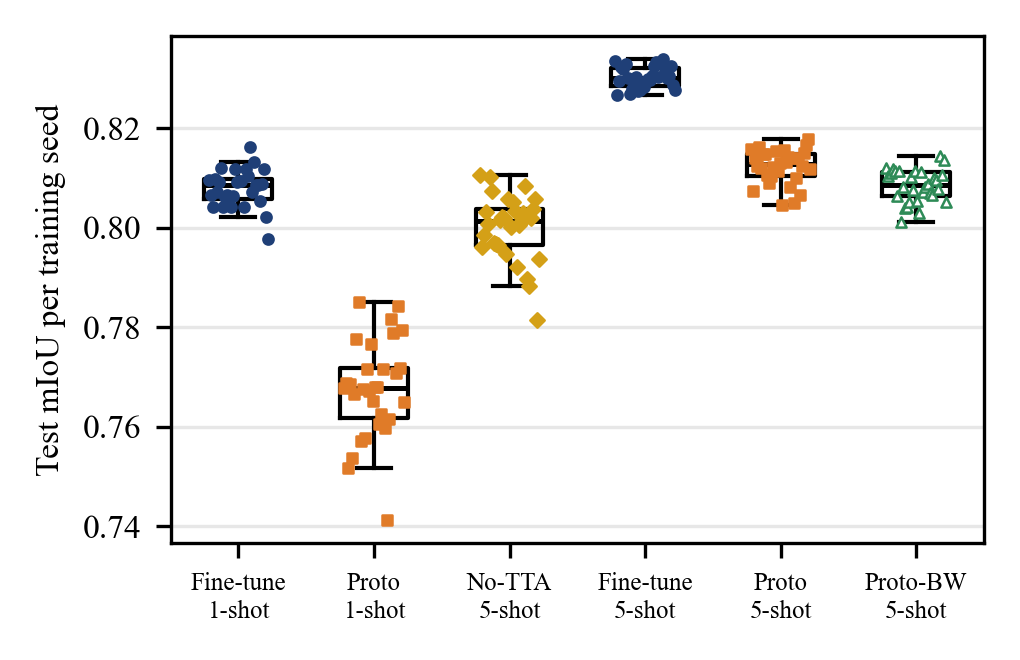
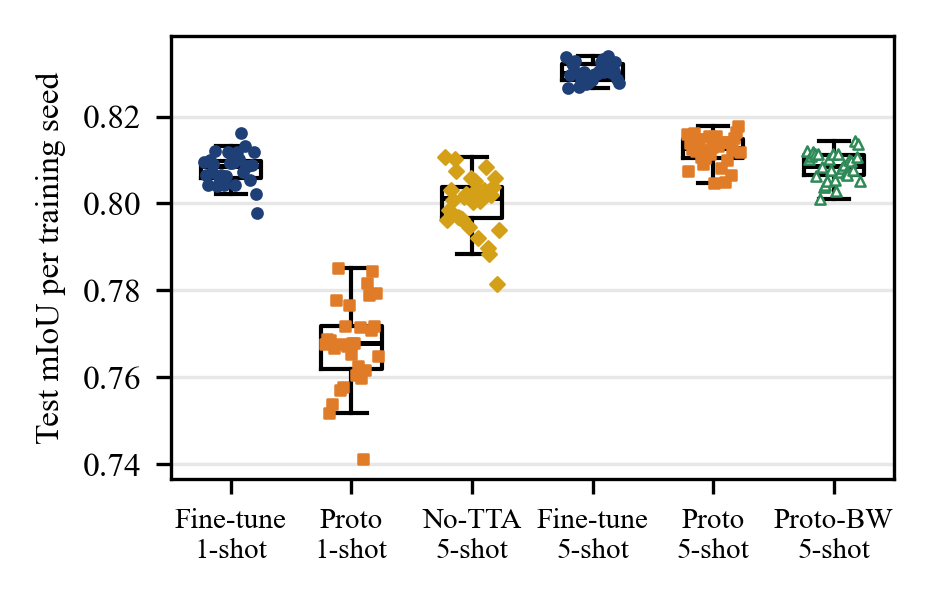
Use median test times, add even/odd-seed robustness tests, draw figures at print width

diff --git a/scripts/stats_and_figures.py b/scripts/stats_and_figures.py
@@ -12,6 +12,7 @@ Outputs (in <root>/report/):
     final_table.md      test mIoU / F1, mean +/- std over training seeds
     stats.md, stats.json paired t-test + Wilcoxon, Holm-corrected, effect sizes
     friedman.json        Friedman omnibus test over the three methods
+    robustness.json      the planned tests repeated on even and odd training seeds
     cost_table.md       training time, best epoch, memory, parameters, ms/episode
     fig_val.png         validation curves (mean over training seeds, band = min-max)
     fig_box.png         per-training-seed test mIoU
@@ -92,15 +93,15 @@ def friedman_tests(final, metric):
     return rows
 
 
-def paired_tests(final, metric):
+def paired_tests(final, metric, seed_filter=None, comparisons=COMPARISONS):
     rows = []
-    for k, a, b in COMPARISONS:
+    for k, a, b in comparisons:
         ra, rb = final.get(f"{k}_{a}"), final.get(f"{k}_{b}")
         if not ra or not rb:
             continue
         sa = {r["train_seed"]: r[metric] for r in ra}
         sb = {r["train_seed"]: r[metric] for r in rb}
-        seeds = sorted(set(sa) & set(sb))
+        seeds = [s for s in sorted(set(sa) & set(sb)) if seed_filter is None or seed_filter(s)]
         if len(seeds) < 2:
             continue
         x = np.array([sa[s] for s in seeds])
@@ -178,16 +179,31 @@ def main():
         lines.append(f"| {r['metric']} | {r['k'][1:]} | {STYLE[r['A']]['label']} | {STYLE[r['B']]['label']} | {r['n']} | "
                      f"{r['mean_diff_A_minus_B']:+.4f} | {r['t']:.2f} | {r['p_t']:.3g} | {r['p_holm']:.3g} | "
                      f"{r['p_wilcoxon_uncorrected']:.3g} | {r['cohen_dz']:+.2f} |")
+    # Proto seeds s and s+1 share some training episodes (README), so repeat the tests on
+    # even and odd seeds separately: within each half no two runs share an episode.
+    robust = {half: paired_tests(final, "mIoU", seed_filter=lambda s, r=r: s % 2 == r)
+              for half, r in (("even", 0), ("odd", 1))}
+    robust["extra_k1_proto_vs_bw"] = paired_tests(final, "mIoU", comparisons=[("k1", "prototype", "prototype_weighted")])
+    (out / "robustness.json").write_text(json.dumps(robust, indent=2), encoding="utf-8")
+    lines += ["", "## Robustness: same tests on even and odd training seeds (mIoU, Holm within each half)", "",
+              "| seeds | k | A | B | n | diff (A-B) | p Holm | p Wilcoxon | d_z |", "|---|---|---|---|---|---|---|---|---|"]
+    for half in ("even", "odd"):
+        for r in robust[half]:
+            lines.append(f"| {half} | {r['k'][1:]} | {STYLE[r['A']]['label']} | {STYLE[r['B']]['label']} | {r['n']} | "
+                         f"{r['mean_diff_A_minus_B']:+.4f} | {r['p_holm']:.3g} | {r['p_wilcoxon_uncorrected']:.3g} | {r['cohen_dz']:+.2f} |")
+    r = robust["extra_k1_proto_vs_bw"][0]
+    lines += ["", f"Unplanned check, Proto minus Proto-BW at k=1 (mIoU, n={r['n']}): diff {r['mean_diff_A_minus_B']:+.4f}, "
+              f"paired t-test p = {r['p_t']:.3g} (uncorrected), Wilcoxon p = {r['p_wilcoxon_uncorrected']:.3g}, d_z = {r['cohen_dz']:+.2f}."]
     (out / "stats.md").write_text("\n".join(lines), encoding="utf-8")
 
     # ---------------- cost table
     lines = ["# Computational cost", "",
              "| Condition | train time (min) | best epoch (per seed) | peak GPU MB | total params | "
-             "ms/episode k=1 | ms/episode k=5 |", "|---|---|---|---|---|---|---|"]
+             "median ms/episode k=1 | median ms/episode k=5 |", "|---|---|---|---|---|---|---|"]
     for cond, c in summary.get("cost", {}).items():
         tt = [t / 60 for t in c["train_time_s"]]
         mem = [m for m in c["peak_gpu_mem_MB"] if m is not None]
-        ms = {k: statistics.mean(r["ms_per_episode"] for r in final.get(f"k{k}_{cond}", [])) if final.get(f"k{k}_{cond}") else float("nan")
+        ms = {k: statistics.median(r["ms_per_episode"] for r in final.get(f"k{k}_{cond}", [])) if final.get(f"k{k}_{cond}") else float("nan")
               for k in (1, 5)}
         lines.append(f"| {STYLE[cond]['label']} | {statistics.mean(tt):.1f} ± {statistics.stdev(tt) if len(tt) > 1 else 0:.1f} | "
                      f"{c['best_epoch']} | {max(mem):.0f} | {c['total_params']:,} | {ms[1]:.0f} | {ms[5]:.0f} |"
@@ -196,13 +212,14 @@ def main():
     nt = final.get("k5_baseline_noTTA")
     if nt:
         lines.append(f"| {STYLE['baseline_noTTA']['label']} | (same model) | | | | "
-                     f"{statistics.mean(r['ms_per_episode'] for r in final['k1_baseline_noTTA']):.0f} | "
-                     f"{statistics.mean(r['ms_per_episode'] for r in nt):.0f} |")
-    lines += ["", f"Hardware: {next(iter(summary.get('cost', {}).values()), {}).get('device')}"]
+                     f"{statistics.median(r['ms_per_episode'] for r in final['k1_baseline_noTTA']):.0f} | "
+                     f"{statistics.median(r['ms_per_episode'] for r in nt):.0f} |")
+    lines += ["", f"Hardware: {next(iter(summary.get('cost', {}).values()), {}).get('device')}",
+              "Test times are medians over training seeds, because a few runs were slowed by the computer sleeping."]
     (out / "cost_table.md").write_text("\n".join(lines), encoding="utf-8")
 
     # ---------------- figure: validation curves (final configs, all training seeds)
-    fig, ax = plt.subplots(figsize=(3.4, 2.3), dpi=300)
+    fig, ax = plt.subplots(figsize=(3.1, 2.1), dpi=300)  # drawn at print width (one column)
     for cond, dirs in state.get("final_runs", {}).items():
         curves = []
         for d in dirs:
@@ -224,7 +241,7 @@ def main():
     ax.xaxis.set_major_locator(matplotlib.ticker.MaxNLocator(integer=True))
     ax.set_ylabel("Validation mIoU")
     ax.grid(alpha=0.3)
-    ax.legend(fontsize=6, loc="lower right")
+    ax.legend(fontsize=7, loc="lower right")
     fig.tight_layout()
     fig.savefig(out / "fig_val.png")
     plt.close(fig)
@@ -240,14 +257,14 @@ def main():
             labels.append(f"{STYLE[cond].get('short', STYLE[cond]['label'])}\n{k[1:]}-shot")
             styles.append(STYLE[cond])
     if data:
-        fig, ax = plt.subplots(figsize=(3.4, 2.2), dpi=300)
+        fig, ax = plt.subplots(figsize=(3.1, 2.0), dpi=300)
         ax.boxplot(data, tick_labels=labels, widths=0.5, showfliers=False, medianprops=dict(color="black", lw=1.2))
         for i, (vals, st) in enumerate(zip(data, styles), start=1):
             jitter = np.linspace(-0.22, 0.22, len(vals)) if len(vals) > 1 else [0]
             ax.scatter(np.full(len(vals), i) + jitter, vals, s=6, marker=st["marker"], zorder=3,
                        facecolors=st["mfc"] or st["color"], edgecolors=st["color"], linewidths=0.6)
         ax.set_ylabel("Test mIoU per training seed")
-        ax.tick_params(axis="x", labelsize=6)
+        ax.tick_params(axis="x", labelsize=7)
         ax.grid(axis="y", alpha=0.3)
         fig.tight_layout()
         fig.savefig(out / "fig_box.png")

diff --git a/experiments/report/stats.md b/experiments/report/stats.md
@@ -12,3 +12,18 @@ Paired t-test (primary) and Wilcoxon signed-rank (check, uncorrected); Holm corr
 | F1 | 5 | Fine-tune | Proto | 30 | +0.0137 | 17.50 | 5.95e-17 | 1.78e-16 | 1.86e-09 | +3.19 |
 | F1 | 5 | Proto | Proto-BW | 30 | +0.0045 | 6.42 | 5.02e-07 | 5.02e-07 | 2.76e-06 | +1.17 |
 | F1 | 5 | Fine-tune | Fine-tune, no TTA | 30 | +0.0273 | 15.60 | 1.22e-15 | 2.44e-15 | 1.86e-09 | +2.85 |
+
+## Robustness: same tests on even and odd training seeds (mIoU, Holm within each half)
+
+| seeds | k | A | B | n | diff (A-B) | p Holm | p Wilcoxon | d_z |
+|---|---|---|---|---|---|---|---|---|
+| even | 1 | Fine-tune | Proto | 15 | +0.0425 | 8.99e-10 | 6.1e-05 | +4.01 |
+| even | 5 | Fine-tune | Proto | 15 | +0.0169 | 2.19e-10 | 6.1e-05 | +4.58 |
+| even | 5 | Proto | Proto-BW | 15 | +0.0040 | 0.000475 | 0.00061 | +1.17 |
+| even | 5 | Fine-tune | Fine-tune, no TTA | 15 | +0.0302 | 8.99e-10 | 6.1e-05 | +4.03 |
+| odd | 1 | Fine-tune | Proto | 15 | +0.0381 | 1.38e-09 | 6.1e-05 | +3.78 |
+| odd | 5 | Fine-tune | Proto | 15 | +0.0190 | 4.58e-11 | 6.1e-05 | +5.03 |
+| odd | 5 | Proto | Proto-BW | 15 | +0.0036 | 0.00619 | 0.00836 | +0.83 |
+| odd | 5 | Fine-tune | Fine-tune, no TTA | 15 | +0.0301 | 6.2e-12 | 6.1e-05 | +5.95 |
+
+Unplanned check, Proto minus Proto-BW at k=1 (mIoU, n=30): diff +0.0042, paired t-test p = 0.0652 (uncorrected), Wilcoxon p = 0.0667, d_z = +0.35.

diff --git a/experiments/report/cost_table.md b/experiments/report/cost_table.md
@@ -1,10 +1,11 @@
 # Computational cost
 
-| Condition | train time (min) | best epoch (per seed) | peak GPU MB | total params | ms/episode k=1 | ms/episode k=5 |
+| Condition | train time (min) | best epoch (per seed) | peak GPU MB | total params | median ms/episode k=1 | median ms/episode k=5 |
 |---|---|---|---|---|---|---|
-| Fine-tune | 2.5 ± 0.2 | [9, 7, 8, 9, 8, 10, 9, 9, 9, 6, 9, 8, 8, 10, 8, 10, 9, 9, 10, 10, 10, 8, 9, 8, 10, 7, 10, 10, 6, 5] | 334 | 3,319,906 | 1511 | 306 |
+| Fine-tune | 2.5 ± 0.2 | [9, 7, 8, 9, 8, 10, 9, 9, 9, 6, 9, 8, 8, 10, 8, 10, 9, 9, 10, 10, 10, 8, 9, 8, 10, 7, 10, 10, 6, 5] | 334 | 3,319,906 | 305 | 311 |
 | Proto | 7.5 ± 0.9 | [20, 14, 14, 17, 14, 14, 16, 18, 15, 12, 13, 16, 17, 15, 17, 18, 20, 16, 19, 17, 18, 18, 17, 17, 16, 10, 19, 16, 15, 10] | 251 | 3,319,392 | 16 | 17 |
 | Proto-BW | 7.4 ± 0.8 | [16, 14, 14, 17, 14, 20, 18, 12, 10, 15, 13, 17, 19, 17, 15, 18, 11, 9, 11, 13, 19, 18, 8, 19, 17, 12, 20, 16, 15, 17] | 251 | 3,319,392 | 17 | 17 |
-| Fine-tune, no TTA | (same model) | | | | 28 | 31 |
+| Fine-tune, no TTA | (same model) | | | | 28 | 32 |
 
 Hardware: NVIDIA GeForce RTX 3070
+Test times are medians over training seeds, because a few runs were slowed by the computer sleeping.
